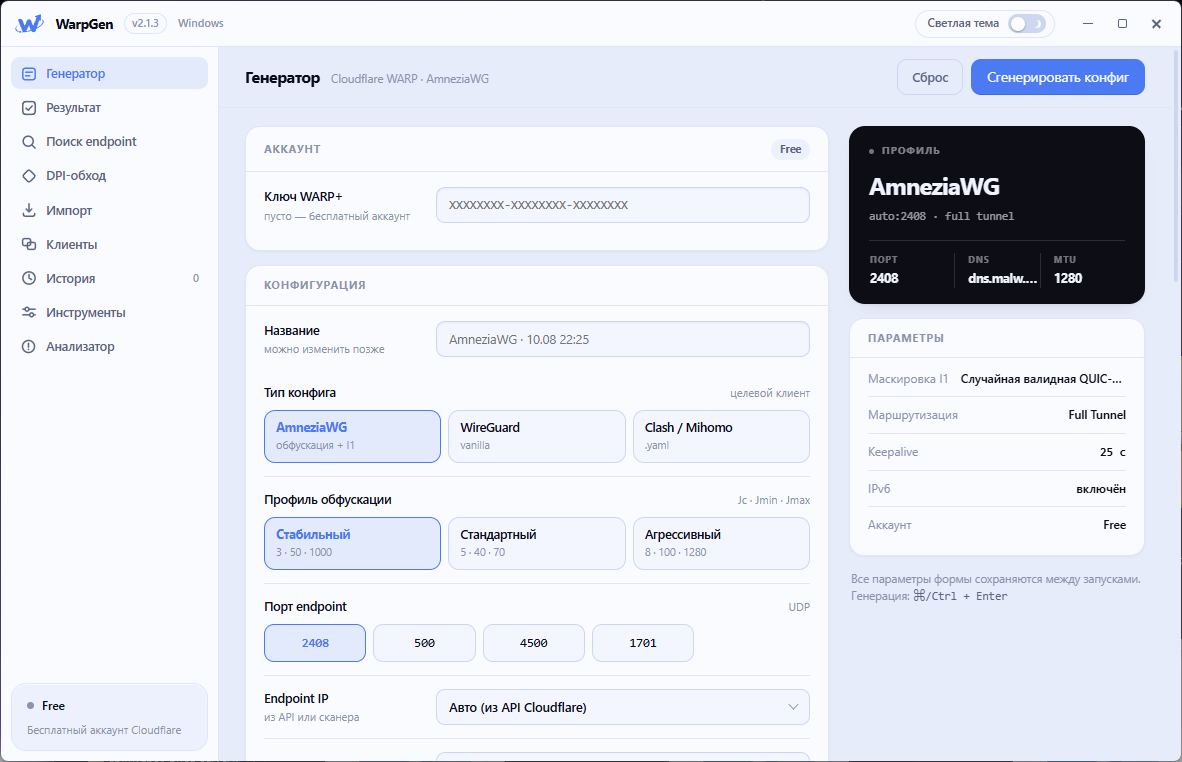
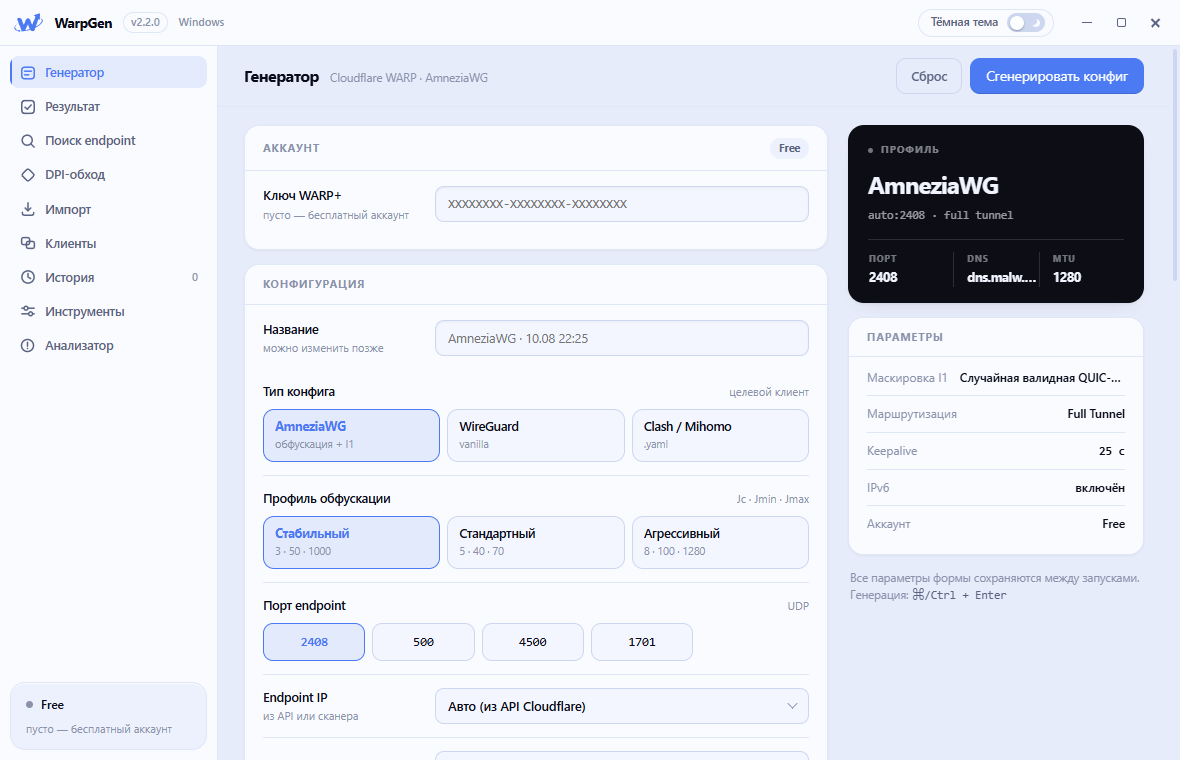
chore: v2.2.0 — design-parity release + startup guard
Wraps init() so a startup failure surfaces as a visible message instead of a
blank window. Refreshes the README screenshot (captured via the WebView2
devtools protocol — GDI BitBlt can't grab the GPU-composited webview).

diff --git a/src/main.ts b/src/main.ts
@@ -2151,4 +2151,12 @@ function init(): void {
   void initWindowChrome();
 }
 
-init();
+try {
+  init();
+} catch (err) {
+  // surface a startup failure instead of a blank window
+  const box = document.createElement("pre");
+  box.style.cssText = "position:fixed;inset:0;margin:0;padding:24px;background:#0d0d11;color:#f4666a;font:12px ui-monospace,monospace;white-space:pre-wrap;overflow:auto;z-index:99999";
+  box.textContent = "init() failed:\n\n" + (err instanceof Error ? `${err.message}\n\n${err.stack}` : String(err));
+  document.body.appendChild(box);
+}
